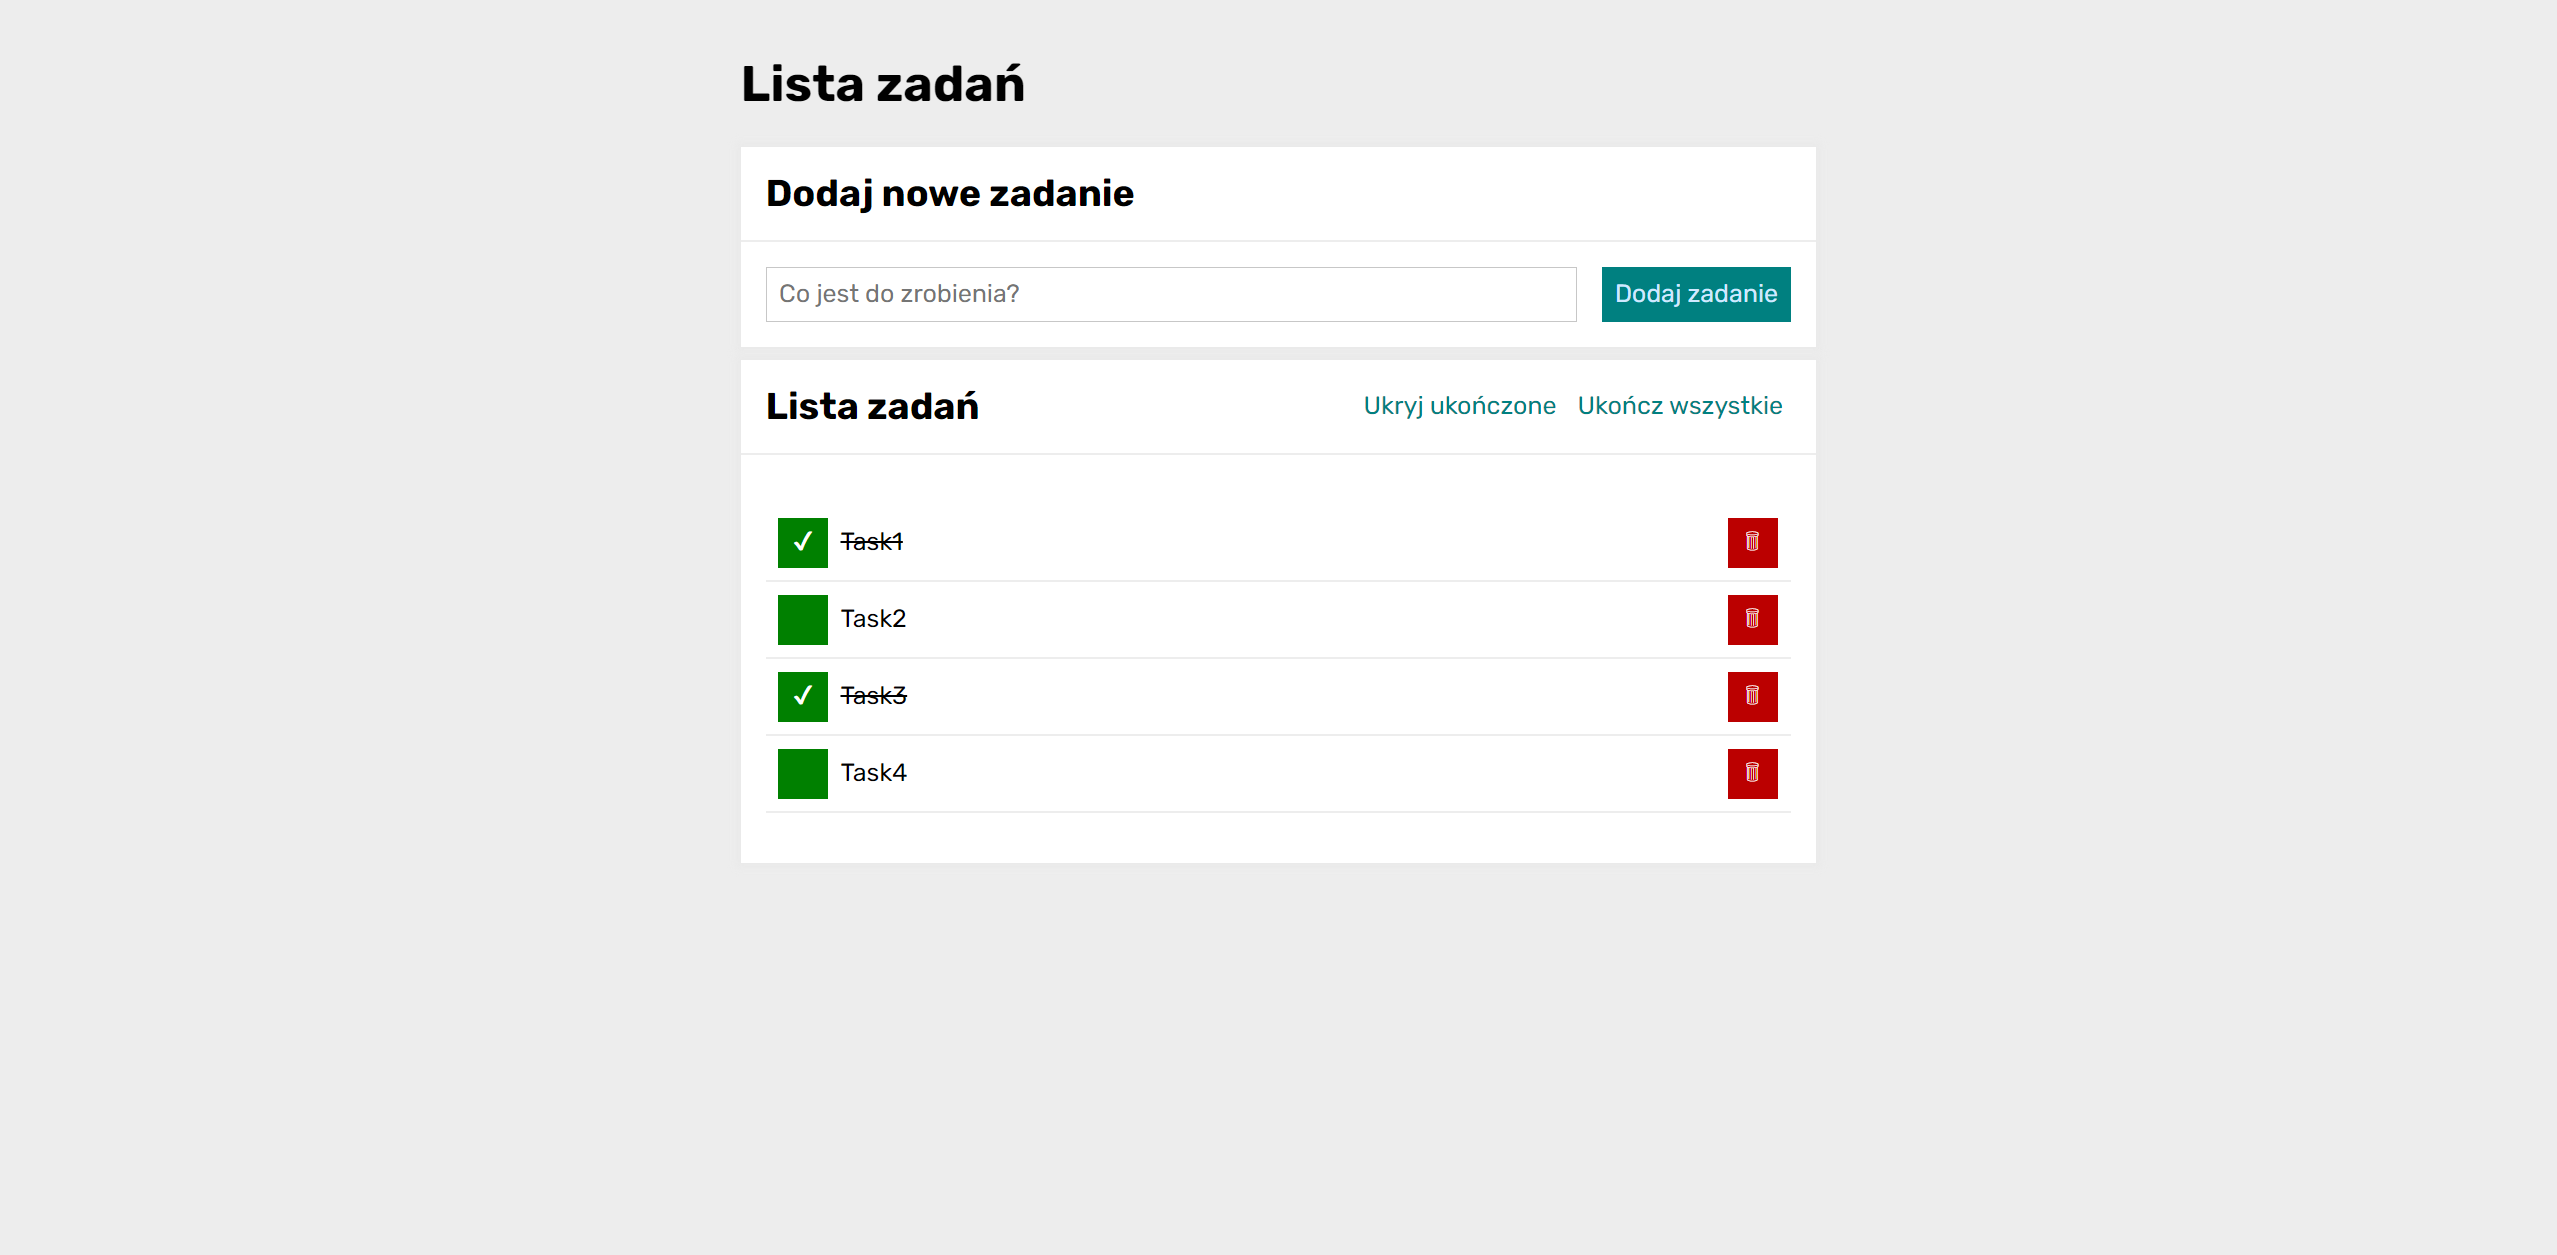
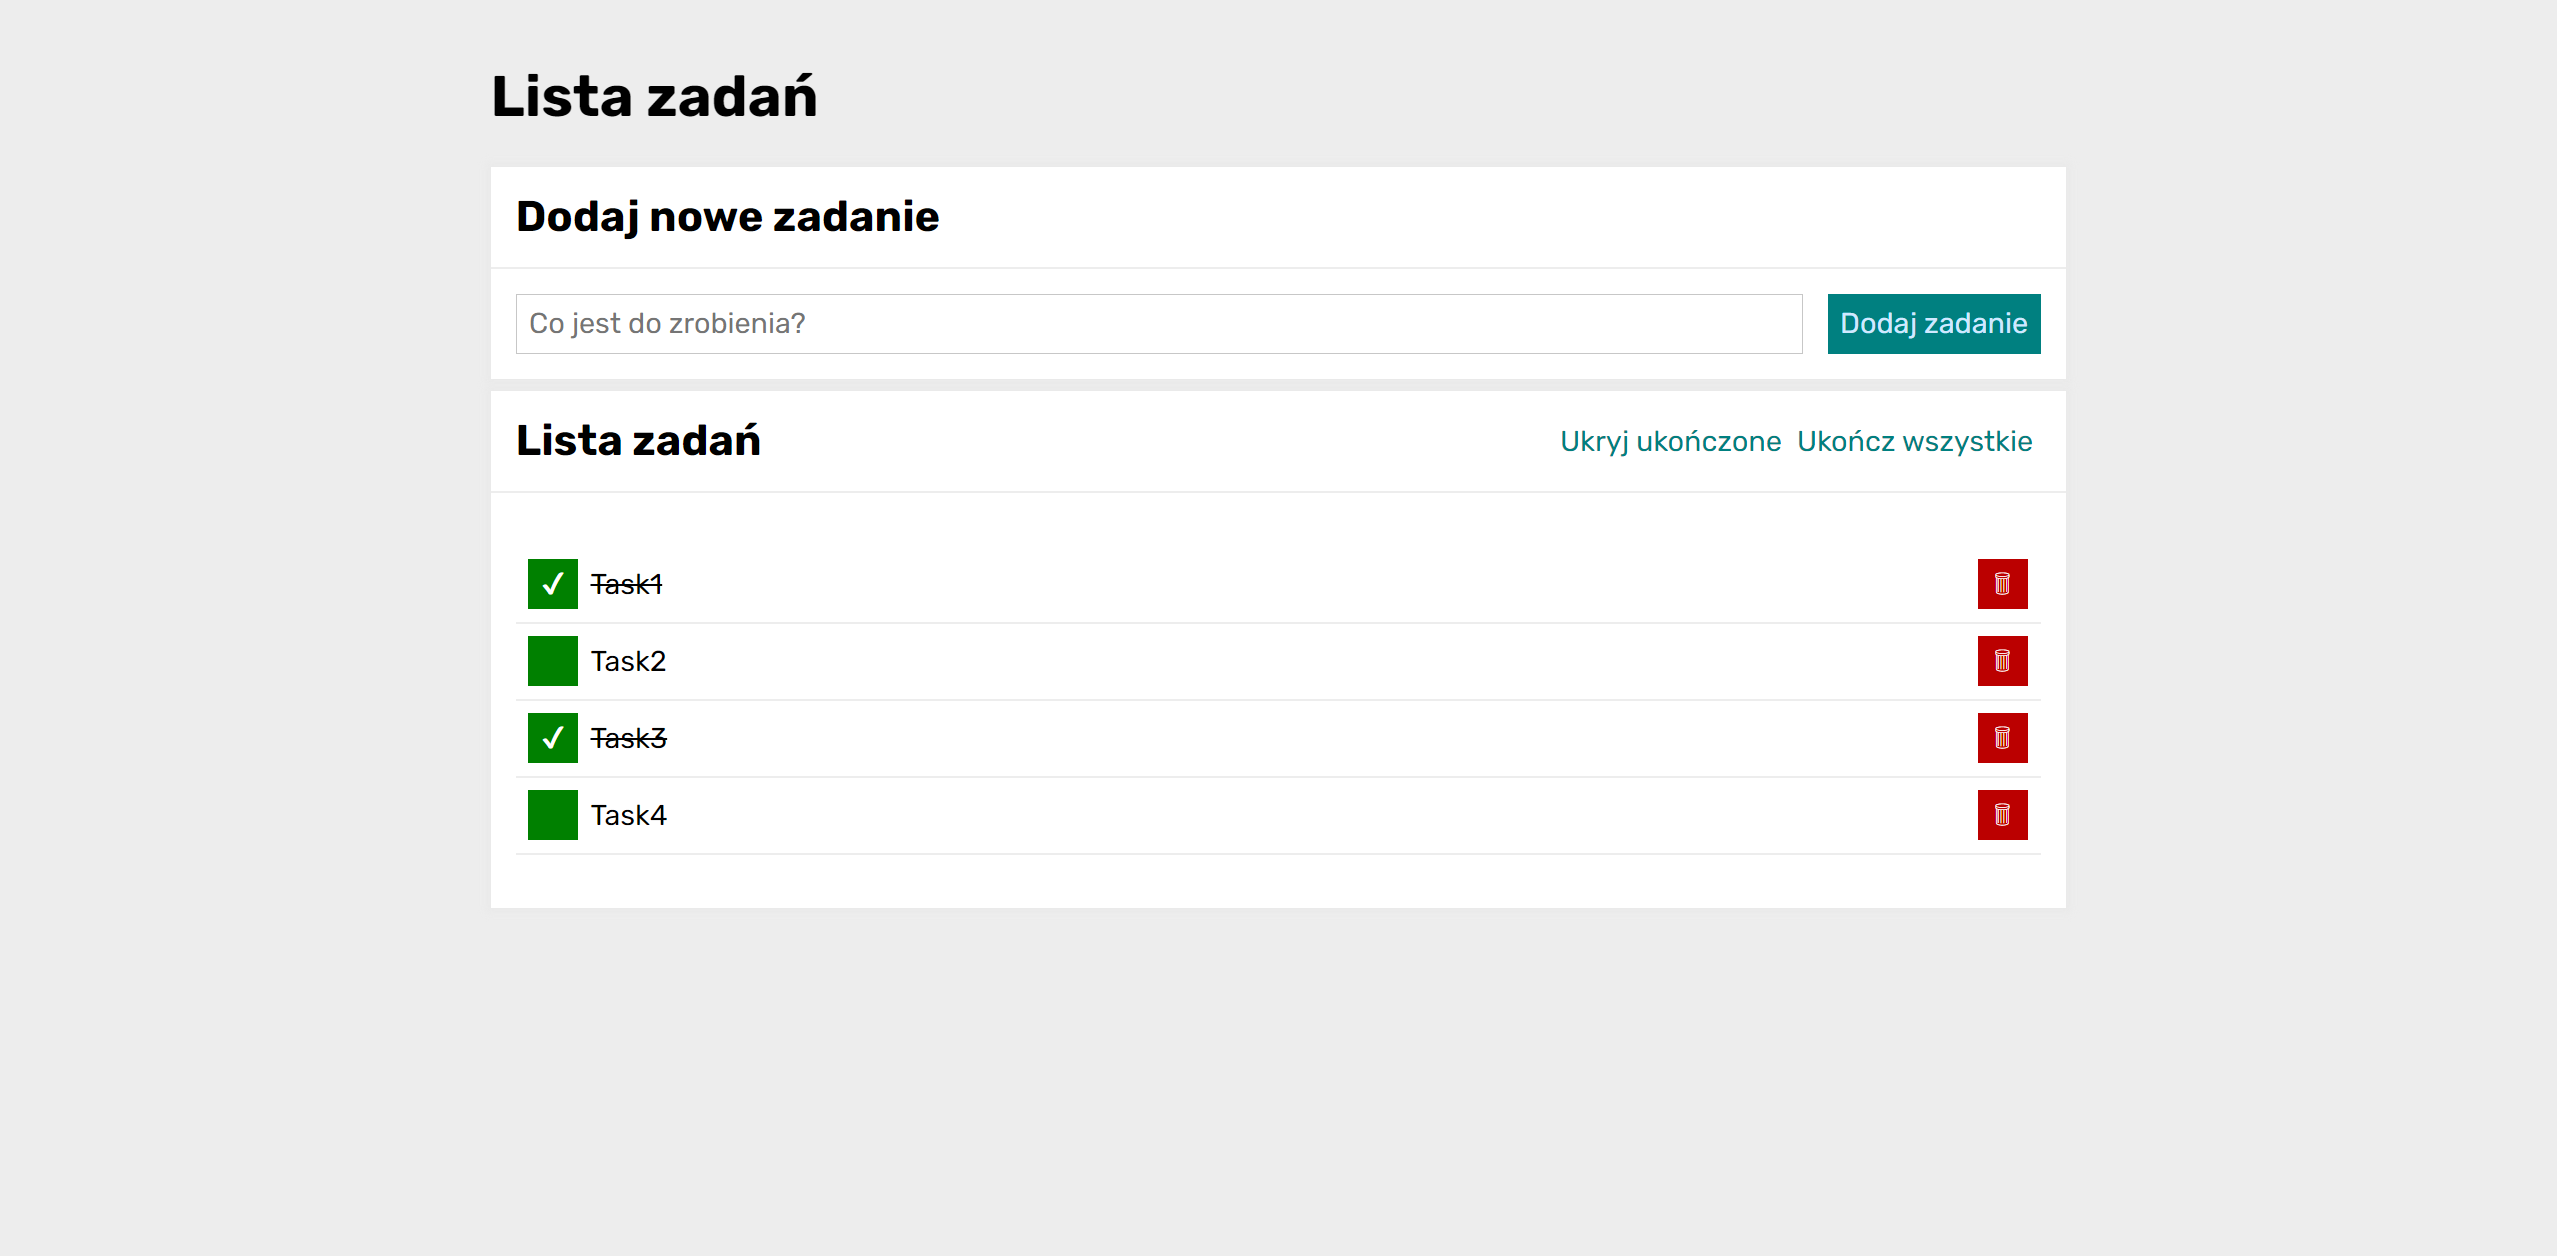
small changes

diff --git a/css/style.css b/css/style.css
@@ -8,7 +8,7 @@ html {
 
 .body {
     font-family: 'Rubik', sans-serif;
-    font-size: 20px;
+    font-size: 23px;
     background-color: rgb(237, 237, 237);
 }
 

diff --git a/css/container.css b/css/container.css
@@ -7,7 +7,7 @@ html {
 }
 
 .container {
-    max-width: 900px;
+    max-width: 1300px;
     padding: 20px;
     margin: 0 auto;
 }
